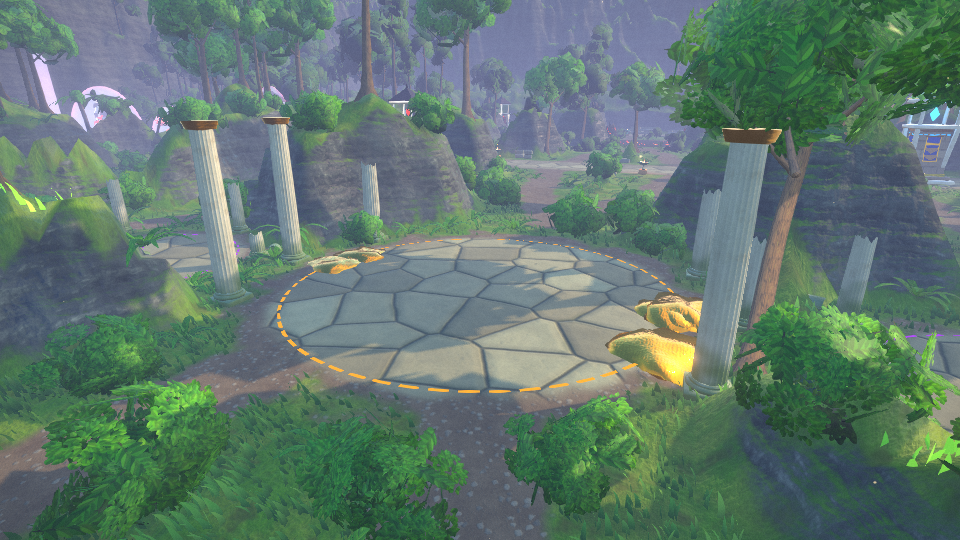
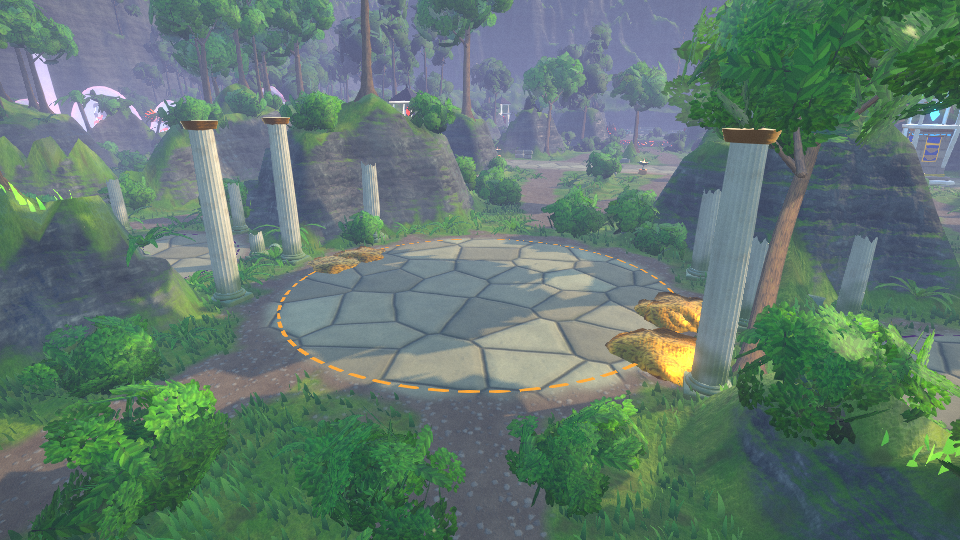
Wyrm hoard: coin-textured, duller gold so heaps read as piles instead of glowing blobs
Claude-Session: https://claude.ai/code/session_01CS3nLk7DN1dABPHrWdgKZ1

diff --git a/src/scene/conquest/Props.ts b/src/scene/conquest/Props.ts
@@ -129,8 +129,13 @@ export class ConquestProps {
     const streaks = mx_noise_float(vec3(positionWorld.x.mul(3), positionWorld.y.mul(0.4), positionWorld.z.mul(3))).mul(0.5).add(0.5);
     this.ruinMarble.colorNode = mix(marble.mul(mix(float(0.42), float(0.62), streaks)).mul(vec3(0.95, 0.97, 0.9)), vec3(0.1, 0.16, 0.05), moss);
     this.hoardGold = mats.gold.clone() as THREE.MeshStandardNodeMaterial;
+    // loose coins: dark gaps between them and a rougher, duller surface than polished trim,
+    // so a heap reads as a pile instead of one glowing blob
+    const coins = mx_noise_float(positionWorld.mul(6.5)).mul(0.5).add(0.5);
+    this.hoardGold.colorNode = (mats.gold.colorNode as any).mul(mix(float(0.35), float(0.85), smoothstep(0.25, 0.6, coins)));
+    this.hoardGold.roughnessNode = mix(float(0.55), float(0.32), coins);
     const glint = pow(mx_noise_float(positionWorld.mul(9)).mul(0.5).add(0.5), float(18));
-    this.hoardGold.emissiveNode = color(0xffd37a).mul(glint.mul(2.5));
+    this.hoardGold.emissiveNode = color(0xffd37a).mul(glint.mul(1.2));
     this.wallStone = mats.sandstone.clone() as THREE.MeshStandardNodeMaterial;
     const sand = mats.sandstone.colorNode as any;
     this.wallStone.colorNode = mix(sand, vec3(dot(sand.rgb, vec3(0.3, 0.59, 0.11))), 0.8).mul(vec3(0.78, 0.88, 0.76));
